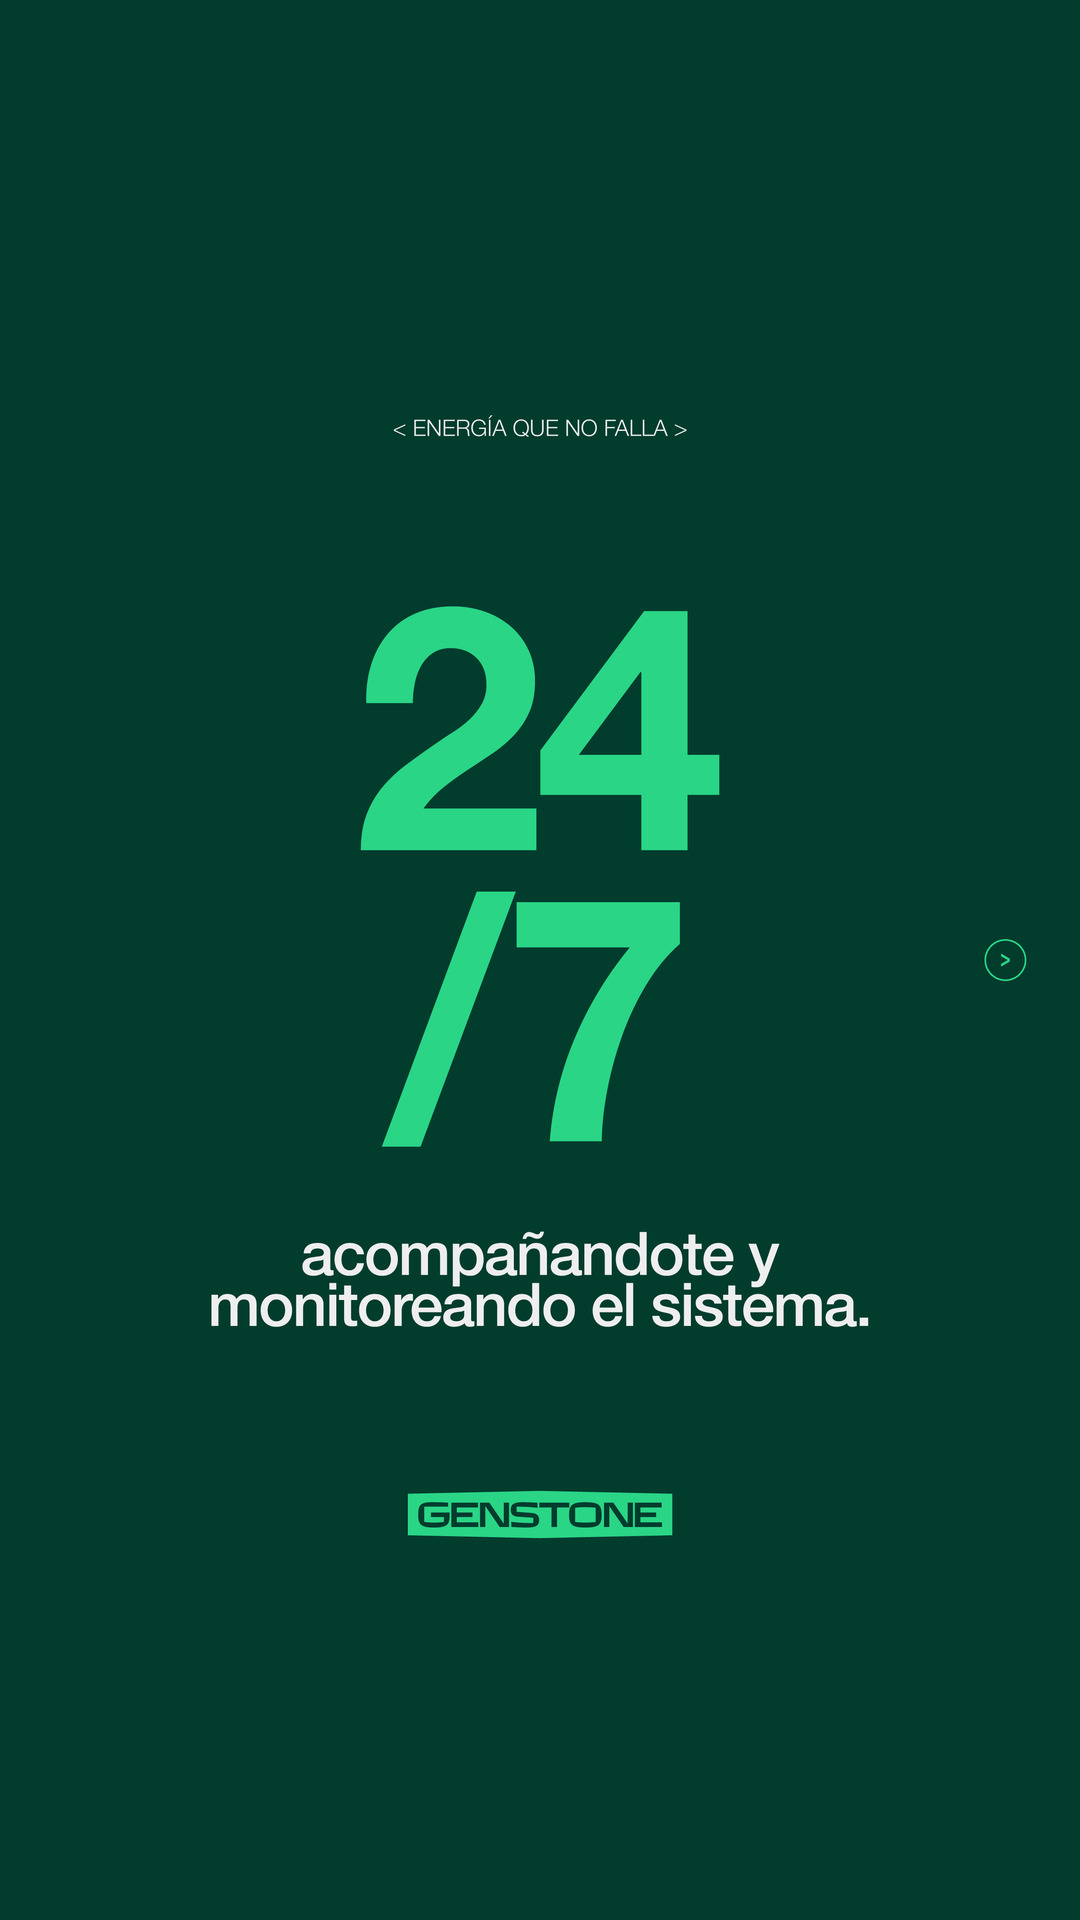
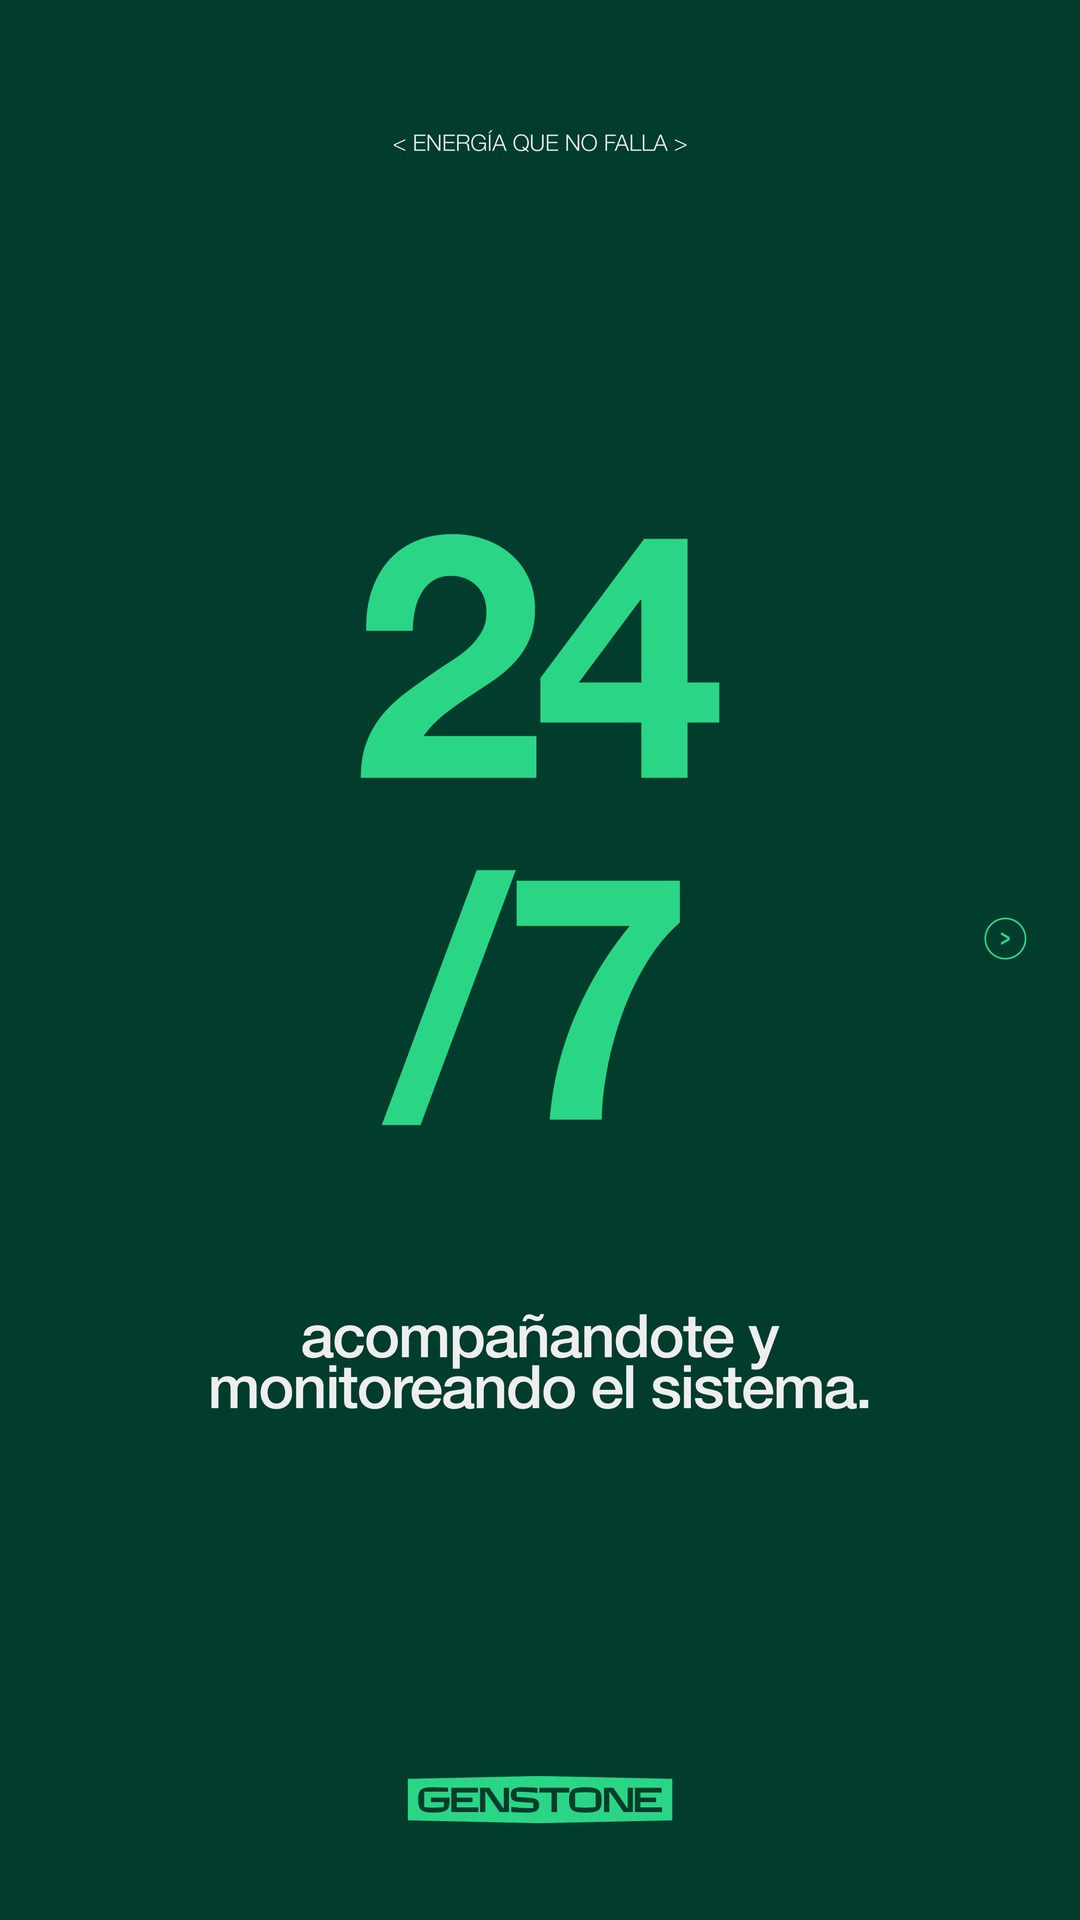
improve: adapt_9x16 sin costuras + redistribucion limpia de gaps
- sample_bg: media de 60x60 px en las 4 esquinas (no 1 pixel)
- find_gaps: detecta gaps internos > 20 filas consecutivas
- Copia solo contenido (no incluye filas-gap del original con ruido JPEG)
- Reemplaza cada gap por color median del gap original + extra rows
- Pad de 8px en cada bloque para preservar descenders (p, g, y, etc.)
- Filtra gaps que tocan el borde (mantiene top/bottom margenes originales)

diff --git a/adapt_9x16.py b/adapt_9x16.py
@@ -1,11 +1,14 @@
 #!/usr/bin/env python3
 """
-Adapta piezas 4:5 (1080x1350) a 9:16 (1080x1920) preservando el arte original.
-Estrategia: detecta color de fondo del corner top-left, escala a 1080 ancho y
-extiende vertical con ese color hasta 1920.
+Adapta piezas 4:5 -> 9:16 (1080x1920) preservando el arte original.
+
+Approach: detecta los GAPS verticales (filas vacias) y le inserta filas
+adicionales de bg puro dentro de cada gap. El contenido nunca se corta
+ni se reposiciona internamente — solo se separan los bloques.
 """
-import subprocess
 from pathlib import Path
+from PIL import Image
+import numpy as np
 
 SRC = Path("/tmp/adapt")
 OUT = Path("/home/user/GENSTONE_SOCIAL-MEDIA/output_9x16")
@@ -13,40 +16,112 @@ OUT.mkdir(exist_ok=True)
 
 TW, TH = 1080, 1920
 
-# slug helpers
+
 def slug(p: Path) -> str:
     s = p.stem.lower()
-    s = s.replace(" ", "_").replace("'", "").replace("á","a").replace("é","e")
-    return s
+    return s.replace(" ", "_").replace("'", "").replace("á","a").replace("é","e")
 
-def detect_bg(img: Path) -> str:
-    """Devuelve color HEX del pixel (5,5) — corner top-left."""
-    out = subprocess.check_output(
-        ["convert", str(img), "-format", "%[pixel:p{5,5}]", "info:"]).decode().strip()
-    # 'srgb(23,59,46)' -> #173B2E
-    if "srgb" in out:
-        nums = out[out.index("(")+1:out.index(")")].split(",")
-        r, g, b = [int(n) for n in nums[:3]]
-        return f"#{r:02X}{g:02X}{b:02X}"
-    return "#FFFFFF"
 
-def adapt(src: Path):
-    bg = detect_bg(src)
-    name = slug(src)
-    dst = OUT / f"{name}.jpg"
-    # Resize ancho a 1080 (alto = 1350 si era 4:5), luego extent a 1080x1920 con bg
-    subprocess.run([
-        "convert", str(src),
-        "-resize", "1080x",
-        "-background", bg,
-        "-gravity", "center",
-        "-extent", f"{TW}x{TH}",
-        "-colorspace", "sRGB",
-        "-quality", "92",
-        "-strip",
-        str(dst)
-    ], check=True)
-    print(f"OK  {dst.name}  (bg={bg})")
+def sample_bg(img: Image.Image):
+    """Media de pixels en las 4 esquinas (60x60 cada una)."""
+    arr = np.asarray(img.convert("RGB"))
+    h, w = arr.shape[:2]
+    s = 60
+    corners = [arr[0:s, 0:s], arr[0:s, w-s:w], arr[h-s:h, 0:s], arr[h-s:h, w-s:w]]
+    stack = np.concatenate([c.reshape(-1, 3) for c in corners])
+    return tuple(int(x) for x in np.median(stack, axis=0))
+
+
+def find_gaps(arr, bg, tol=18, min_gap_rows=20):
+    """Devuelve [(y0, y1)] de regiones-gap (filas casi enteramente bg)
+       que tengan al menos min_gap_rows filas consecutivas."""
+    diff = np.abs(arr.astype(np.int16) - np.array(bg, dtype=np.int16)).max(axis=2)
+    row_is_bg = (diff <= tol).mean(axis=1) > 0.99
+    h = len(row_is_bg)
+
+    gaps = []
+    y = 0
+    while y < h:
+        if row_is_bg[y]:
+            start = y
+            while y < h and row_is_bg[y]:
+                y += 1
+            if y - start >= min_gap_rows:
+                gaps.append((start, y))
+        else:
+            y += 1
+    return gaps
+
+
+def expand(src: Path, dst: Path):
+    img = Image.open(src).convert("RGB")
+    w0, h0 = img.size
+    new_h = int(h0 * TW / w0)
+    img = img.resize((TW, new_h), Image.LANCZOS)
+    arr = np.asarray(img)
+    bg = sample_bg(img)
+    bg_hex = "#{:02X}{:02X}{:02X}".format(*bg)
+
+    extra_total = TH - new_h
+    if extra_total <= 0:
+        img.crop((0, 0, TW, TH)).save(dst, "JPEG", quality=92)
+        print(f"OK  {dst.name}  (sin expansion necesaria)")
+        return
+
+    gaps = find_gaps(arr, bg)
+    # Filtrar gaps que tocan el borde (top/bottom) — solo gaps internos
+    internal_gaps = [g for g in gaps if g[0] > 5 and g[1] < new_h - 5]
+
+    if not internal_gaps:
+        # Sin gaps internos: agregar margenes top/bottom usando filas-edge
+        # del original para evitar costura JPEG
+        canvas = Image.new("RGB", (TW, TH), bg)
+        canvas.paste(img, (0, extra_total // 2))
+        canvas.save(dst, "JPEG", quality=92)
+        print(f"OK  {dst.name}  (sin gaps internos)")
+        return
+
+    # Distribuir extra_total proporcional al tamaño de cada gap interno
+    sizes = [g[1] - g[0] for g in internal_gaps]
+    total = sum(sizes)
+    extra_per = [int(extra_total * s / total) for s in sizes]
+    diff = extra_total - sum(extra_per)
+    if diff != 0:
+        idx = sizes.index(max(sizes))
+        extra_per[idx] += diff
+
+    # Construir canvas:
+    #   - copia solo bloques de contenido (sin incluir las filas-gap del original)
+    #   - cada gap original lo reemplazamos por bg promedio limpio de (gap + extra)
+    canvas = Image.new("RGB", (TW, TH), bg)
+    y_canvas = 0
+    y_src = 0
+    PAD = 8  # rows extra para preservar descenders (p, g, y, etc.)
+    for i, (g0, g1) in enumerate(internal_gaps):
+        # Extender content hasta g0 + PAD para incluir descenders
+        content_end = min(g0 + PAD, g1)
+        content_h = content_end - y_src
+        if content_h > 0:
+            block = img.crop((0, y_src, TW, content_end))
+            canvas.paste(block, (0, y_canvas))
+            y_canvas += content_h
+        # Reemplazar lo que queda del gap por color limpio + extra
+        gap_h = (g1 - content_end) + extra_per[i]
+        gap_pixels = arr[content_end:g1].reshape(-1, 3) if g1 > content_end else arr[g0:g1].reshape(-1, 3)
+        gap_color = tuple(int(c) for c in np.median(gap_pixels, axis=0))
+        fill = Image.new("RGB", (TW, gap_h), gap_color)
+        canvas.paste(fill, (0, y_canvas))
+        y_canvas += gap_h
+        y_src = g1
+
+    # Copiar resto del original (despues del ultimo gap interno)
+    if y_src < new_h:
+        block = img.crop((0, y_src, TW, new_h))
+        canvas.paste(block, (0, y_canvas))
+
+    canvas.save(dst, "JPEG", quality=92, optimize=True)
+    print(f"OK  {dst.name}  bg={bg_hex}  gaps_internos={len(internal_gaps)}")
+
 
 def main():
     files = []
@@ -54,7 +129,9 @@ def main():
         files += list(SRC.rglob(ext))
     files = [f for f in files if "__MACOSX" not in str(f)]
     for f in sorted(files):
-        adapt(f)
+        dst = OUT / f"{slug(f)}.jpg"
+        expand(f, dst)
+
 
 if __name__ == "__main__":
     main()
